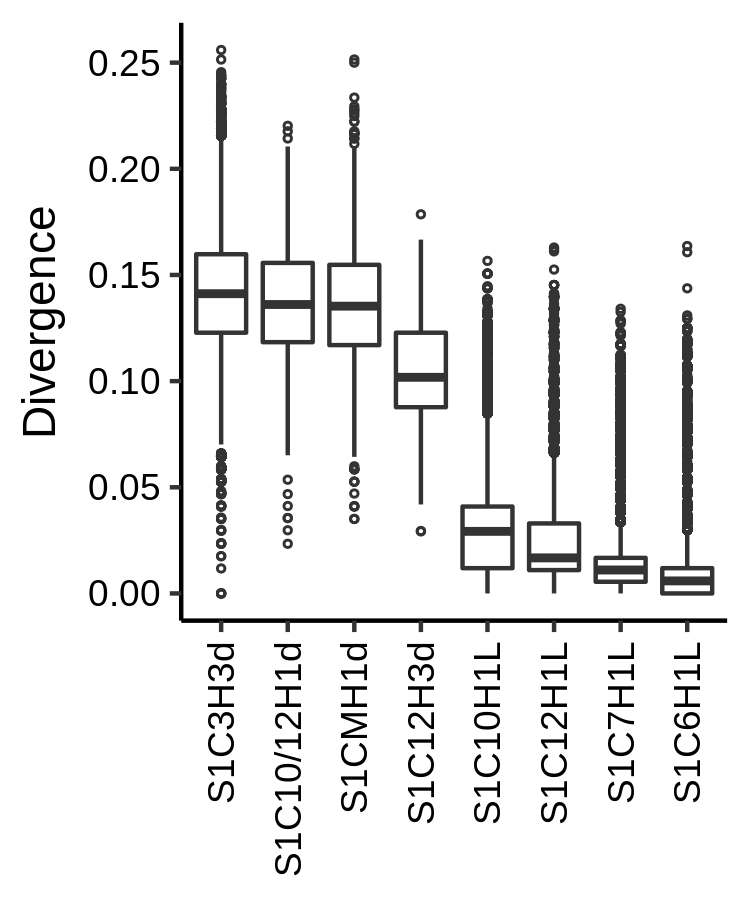
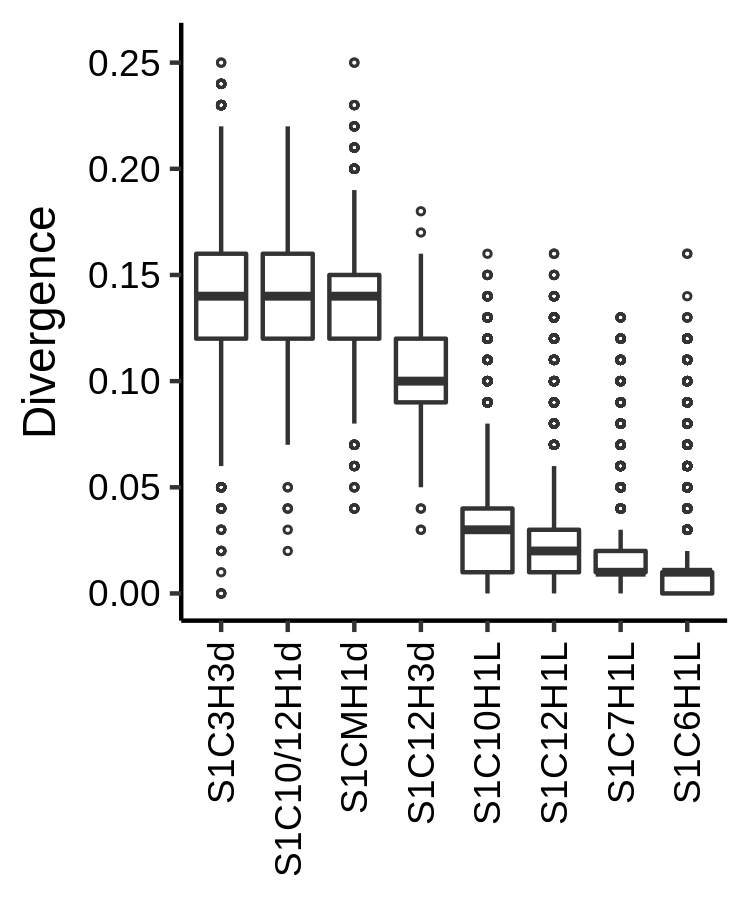
Changes after rounding values

diff --git a/divergence/README.md b/divergence/README.md
@@ -79,14 +79,14 @@ Rscript ./divgr-boxplot.R
 
 Table with the values of the geom_boxplot object used when creating the image:
 
-| ymin     | lower    | middle   | upper    | ymax     | notchupper          | notchlower          | ymin_final | ymax_final | HORnames    |
-| -------- | -------- | -------- | -------- | -------- | ------------------- | ------------------- | ---------- | ---------- | ----------- |
-| 0.070175 | 0.122807 | 0.141176 | 0.159763 | 0.214286 | 0.141420230407622   | 0.140931769592378   | 0          | 0.255952   | S1C3H3d     |
-| 0.065089 | 0.118343 | 0.136095 | 0.155689 | 0.210526 | 0.138239634263075   | 0.133950365736925   | 0.023392   | 0.220238   | S1C10/12H1d |
-| 0.064327 | 0.116959 | 0.135294 | 0.154762 | 0.210526 | 0.136692910786617   | 0.133895089213383   | 0.035088   | 0.251497   | S1CMH1d     |
-| 0.041916 | 0.087719 | 0.101796 | 0.122807 | 0.166667 | 0.105133038062328   | 0.098458961937672   | 0.02924    | 0.178571   | S1C12H3d    |
-| 0        | 0.011905 | 0.02924  | 0.040936 | 0.084337 | 0.0292836095540003  | 0.0291963904459997  | 0          | 0.156627   | S1C10H1L    |
-| 0        | 0.010989 | 0.01676  | 0.032967 | 0.065934 | 0.0168172630953601  | 0.0167027369046399  | 0          | 0.162921   | S1C12H1L    |
-| 0        | 0.005495 | 0.01105  | 0.01676  | 0.03352  | 0.0110839493701906  | 0.0110160506298094  | 0          | 0.134078   | S1C7H1L     |
-| 0        | 0        | 0.005917 | 0.011905 | 0.029762 | 0.00593777288295495 | 0.00589622711704505 | 0          | 0.163636   | S1C6H1L     |
+| ymin | lower | middle | upper | ymax | notchupper         | notchlower          | ymin_final | ymax_final | HORnames    |
+| ---- | ----- | ------ | ----- | ---- | ------------------ | ------------------- | ---------- | ---------- | ----------- |
+| 0.06 | 0.12  | 0.14   | 0.16  | 0.22 | 0.14026434954439   | 0.13973565045561    | 0          | 0.25       | S1C3H3d     |
+| 0.07 | 0.12  | 0.14   | 0.16  | 0.22 | 0.142297043070824  | 0.137702956929176   | 0.02       | 0.22       | S1C10/12H1d |
+| 0.08 | 0.12  | 0.14   | 0.15  | 0.19 | 0.141110158548224  | 0.138889841451776   | 0.04       | 0.25       | S1CMH1d     |
+| 0.05 | 0.09  | 0.1    | 0.12  | 0.16 | 0.102853144718133  | 0.0971468552818673  | 0.03       | 0.18       | S1C12H3d    |
+| 0    | 0.01  | 0.03   | 0.04  | 0.08 | 0.0300450651586238 | 0.0299549348413762  | 0          | 0.16       | S1C10H1L    |
+| 0    | 0.01  | 0.02   | 0.03  | 0.06 | 0.0200521094688872 | 0.0199478905311128  | 0          | 0.16       | S1C12H1L    |
+| 0    | 0.01  | 0.01   | 0.02  | 0.03 | 0.0100301370352336 | 0.00996986296476643 | 0          | 0.13       | S1C7H1L     |
+| 0    | 0     | 0.01   | 0.01  | 0.02 | 0.0100174488727047 | 0.0099825511272953  | 0          | 0.16       | S1C6H1L     |
 
